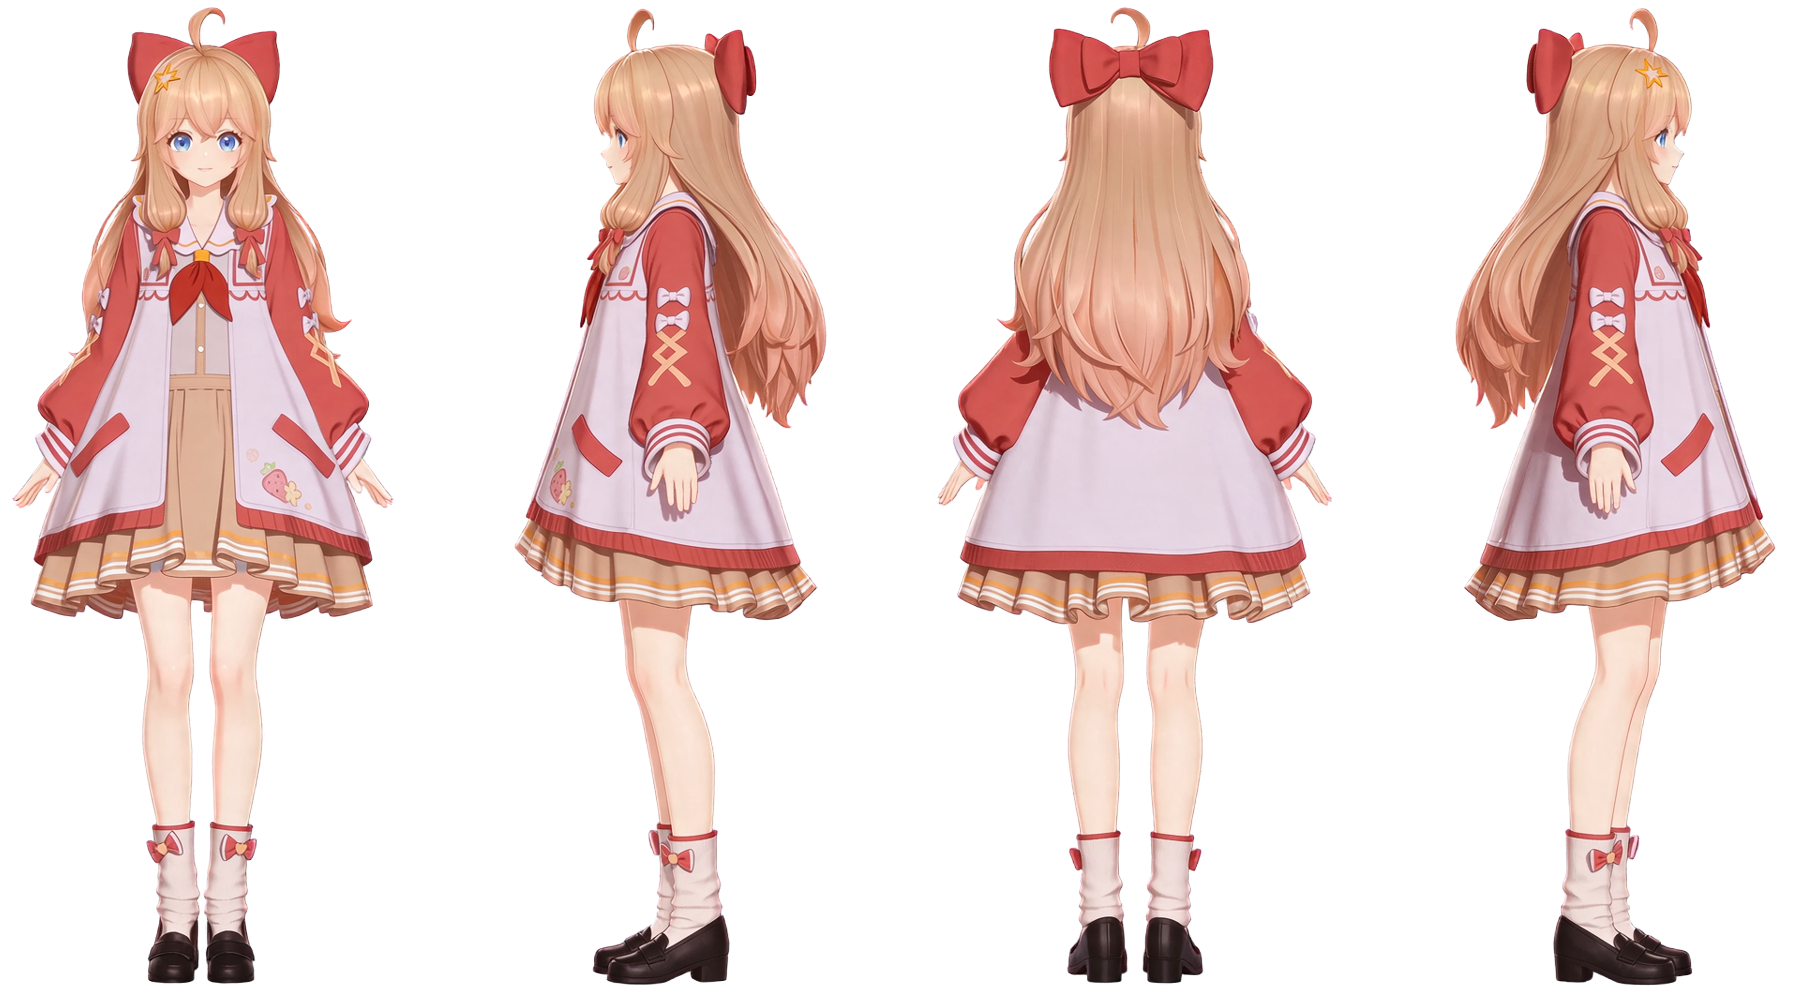
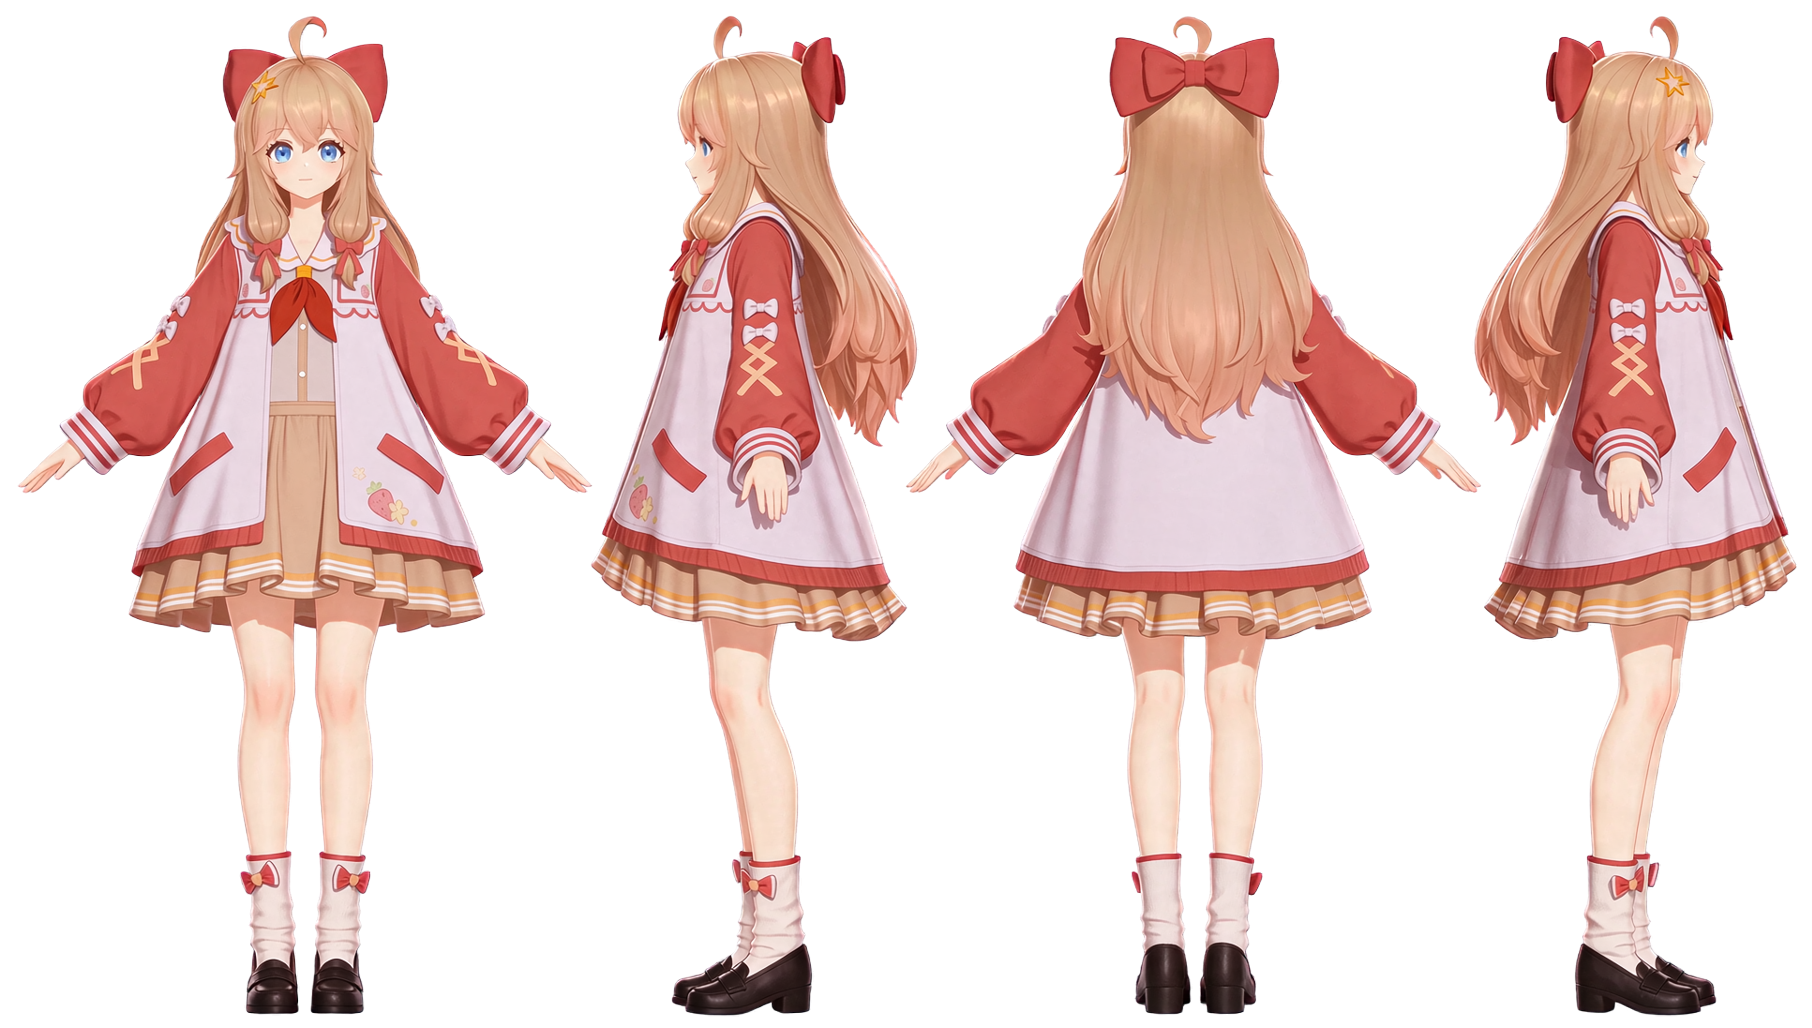
add&update

diff --git a/content/bella/index.md b/content/bella/index.md
@@ -4,11 +4,15 @@ weight: 10
 date: 2026-02-26
 description: B站个人主页：https://space.bilibili.com/672353429
 resources:
-  - src: 出道.png
+  - src: 26年生日服-白.png
     params:
       cover: true
   - src: 五周年团服.png
     title: "由B站用户(uid:21923073) 布拉尼斯拉夫- 制作"
   - src: 16-1.png
+    title: "由B站用户(uid:21923073) 布拉尼斯拉夫- 制作"
+  - src: 26年生日服-黑.png
+    title: "由B站用户(uid:21923073) 布拉尼斯拉夫- 制作"
+  - src: 26年生日服-白.png
     title: "由B站用户(uid:21923073) 布拉尼斯拉夫- 制作"
 ---

diff --git a/content/eileen/index.md b/content/eileen/index.md
@@ -3,7 +3,7 @@ title: 乃琳Queen
 weight: 30
 description: B站个人主页：https://space.bilibili.com/672342685
 resources:
-  - src: 我系雕啊.png
+  - src: 24.png
     params:
       cover: true
   - src: 21.png
